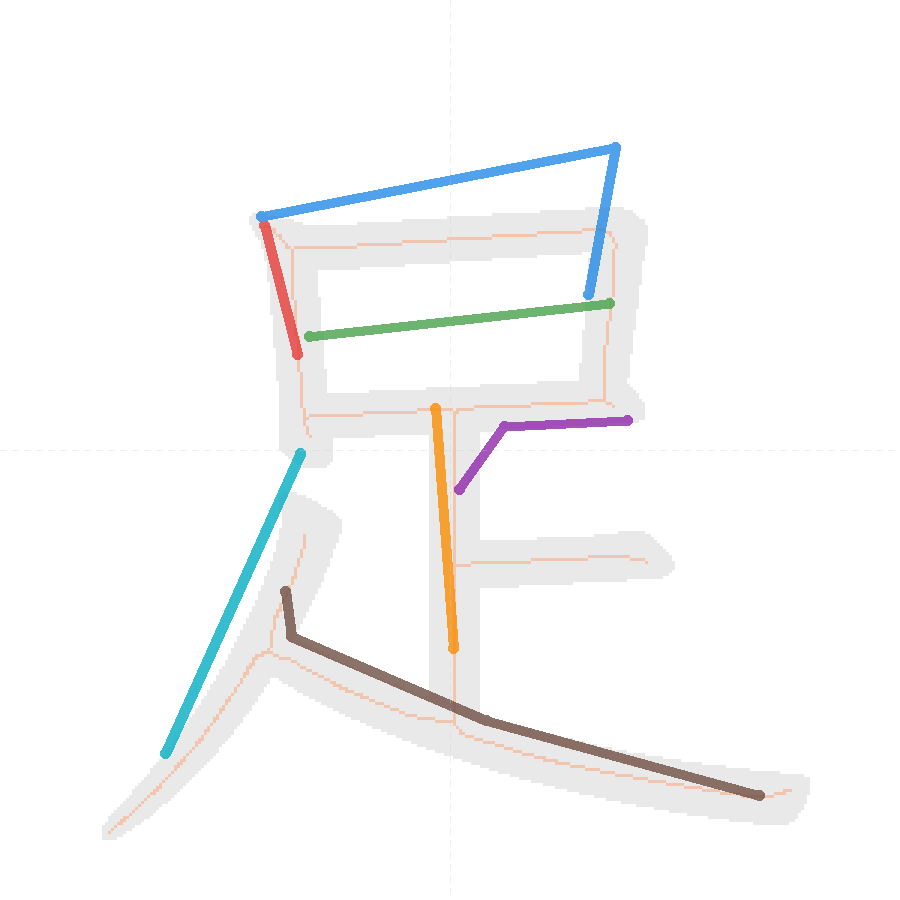
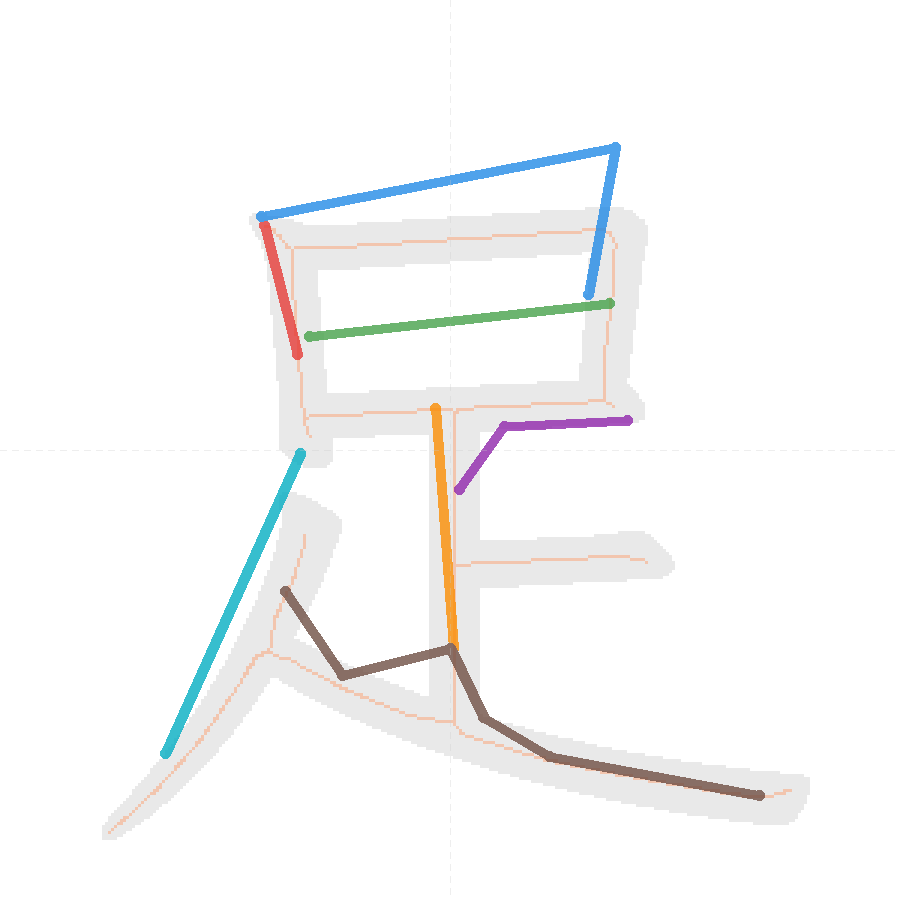
KVGスナップ全タイプ10%ボーナス追加 + 最終80文字再生成

Changed region(s): [[0.3111, 0.6533, 0.84, 0.9022]]

diff --git a/auto_strokes.py b/auto_strokes.py
@@ -1681,9 +1681,12 @@ def generate_strokes(kanji: str, debug=False) -> dict:
                     # 平滑化してから評価
                     kvg_skel_smooth = smooth_path(kvg_skel, window=7)
                     dev_kvg_skel = _avg_dev(kvg_skel_smooth)
-                    # ㇕/㇆タイプはセグメント直線化で大幅改善されるため、
-                    # KVGスナップに小さなボーナス（20%マージン）を付与
-                    accept_threshold = best_dev * 1.2 if is_corner_type else best_dev
+                    # KVGスナップはルーティング不要で密集漢字に強いため
+                    # 全ストロークに10%ボーナス、㇕/㇆には20%ボーナス
+                    if is_corner_type:
+                        accept_threshold = best_dev * 1.2
+                    else:
+                        accept_threshold = best_dev * 1.1
                     if dev_kvg_skel < accept_threshold:
                         best_path = kvg_skel_smooth
                         best_dev = dev_kvg_skel
